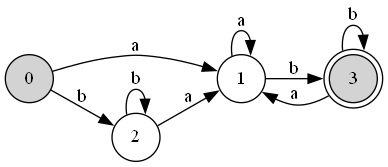
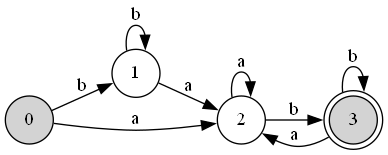
(Maybe) finished lab B

diff --git a/src/utils/direct_construction.py b/src/utils/direct_construction.py
@@ -5,8 +5,10 @@ Santiago Taracena Puga (20017)
 """
 
 # Módulos necesarios para la construcción directa.
+from utils.postfix import OPERATORS
 from utils.classes.node import Node
 from utils.classes.stack import Stack
+from utils.classes.dfa import DFA
 
 # Método para construir el árbol de expresión a partir de una expresión postfix.
 def build_expression_tree(postfix):
@@ -204,10 +206,40 @@ def direct_construction(postfix):
         node.properties["lastpos"] = lastpos(node)
         node.properties["followpos"] = followpos(node)
 
-    expression_tree_root.print_tree_by_inorder()
+    # expression_tree_root.print_tree_by_inorder()
 
-    for node in node_array:
-        if (node.position != None):
-            print(node.value, node.position, set([node.position for node in node.properties["followpos"]]))
+    states = set()
+    alphabet = set([char for char in postfix if char not in set(OPERATORS) | {"ε", "#"}])
+    indexed_states = []
+    mapping = {}
+    state_stack = Stack()
+    initial_state = firstpos(expression_tree_root)
+    state_stack.push(initial_state)
+    indexed_states.append(initial_state)
 
-    print(postfix)
+    while (not state_stack.is_empty()):
+        current_state = state_stack.pop()
+        current_state_index = indexed_states.index(current_state)
+        mapping[current_state_index] = {}
+        for char in alphabet:
+            next_state = set()
+            for node in current_state:
+                if (node.value == char):
+                    next_state |= node.properties["followpos"]
+            if (next_state not in indexed_states):
+                indexed_states.append(next_state)
+                state_stack.push(next_state)
+            mapping[current_state_index][char] = indexed_states.index(next_state)
+
+    for index in range(len(indexed_states)):
+        states.add(index)
+
+    acceptance_states = set([indexed_states.index(state) for state in indexed_states if (state & lastpos(expression_tree_root) != set())])
+
+    return DFA(
+        states=states,
+        alphabet=alphabet,
+        initial_state=indexed_states.index(initial_state),
+        acceptance_states=acceptance_states,
+        mapping=mapping
+    )

diff --git a/src/main.py b/src/main.py
@@ -36,7 +36,10 @@ minimized_dfa = dfa_minimization(dfa)
 show_dfa(minimized_dfa, type="min", view=False)
 print(f"\nMin-DFA: ¿La cadena {w_string} pertenece a la expresión regular {regex}? {minimized_dfa.simulate(w_string)}")
 
-direct_construction(postfix)
+# Construcción directa del DFA de la expresión regular.
+direct_dfa = direct_construction(postfix)
+show_dfa(direct_dfa, type="direct", view=False)
+print(f"\nDirect-DFA: ¿La cadena {w_string} pertenece a la expresión regular {regex}? {direct_dfa.simulate(w_string)}")
 
 # Fin del cronómetro.
 print(f"\nProceso terminado en {default_timer() - start} segundos.\n")
